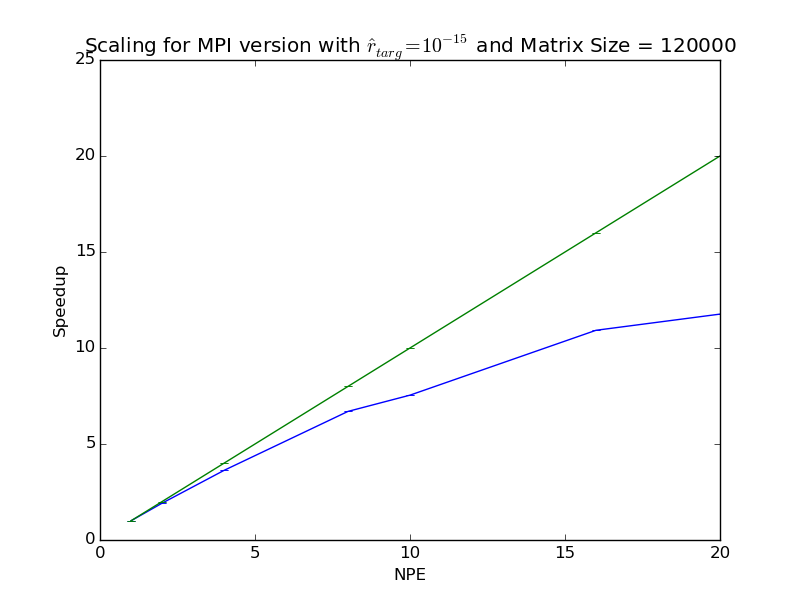
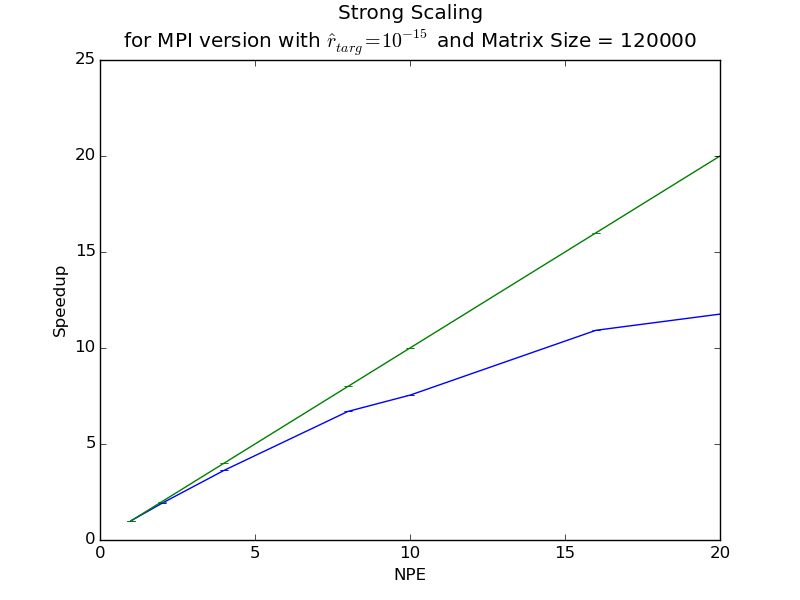
add weak scaling

Changed region(s): [[0.0938, 0.0, 0.9375, 0.12]]

diff --git a/D3/src/plot.py b/D3/src/plot.py
@@ -1,7 +1,7 @@
 import numpy as np
 import matplotlib.pyplot as plt
 
-nfiles = ["results/weak_timing.dat"] #results/strong_timing.dat
+nfiles = ["results/strong_timing.dat", "results/weak_timing.dat"]
 rep = 10     # number of repetition per measure, set in top of src/main.c
 
 for namef in nfiles:
@@ -51,7 +51,7 @@ for namef in nfiles:
 
         plt.errorbar(x_real, y_real[0]/y_real, yerr=err, label = namef[:-4])
         plt.errorbar(x_real, x_real, yerr=err, label = namef[:-4])
-        plt.title('Scaling for MPI version with $\hat{r}_{targ} = 10^{-15}$ and Matrix Size = 120000')
+        plt.title('Strong Scaling\nfor MPI version with $\hat{r}_{targ} = 10^{-15}$ and Matrix Size = 120000')
         plt.xlabel('NPE')
         plt.ylabel('Speedup')
         plt.savefig("results/first_scaling.png")
@@ -59,9 +59,9 @@ for namef in nfiles:
 
     elif namef == nfiles[1]:
 
-        plt.errorbar(x_real**0.5, y_real, yerr=err, label = namef[:-4])
-        plt.title('Scaling obtained with $\hat{r}_{targ} = 10^{-10}$ Matrix Size = 500')
-        plt.xlabel('sqrt(Condition Number)')
-        plt.ylabel('N_Iter')
+        plt.errorbar(x_real, y_real, yerr=err, label = namef[:-4])
+        plt.title('Scaling obtained with $\hat{r}_{targ} = 10^{-10}$ Matrix Size = 120000 * NPE')
+        plt.xlabel('Matrix size')
+        plt.ylabel('time (s)')
         plt.savefig("results/second_scaling.png")
         plt.close('all')

diff --git a/D3/src/benchmark.c b/D3/src/benchmark.c
@@ -33,6 +33,9 @@ int main(int argc, char** argv){
   MPI_Comm_rank(MPI_COMM_WORLD, &MyID);
   MPI_Comm_size(MPI_COMM_WORLD, &NPE);
 
+  /* FOR WEAK SCALING MEASURE */
+  L *= NPE;
+
   MyTag = 42;
   vsize = L;
   L /= NPE;
@@ -102,8 +105,14 @@ int main(int argc, char** argv){
   MPI_Gatherv(f, L, MPI_DOUBLE, results_recv, recv, displ, MPI_DOUBLE, 0, MPI_COMM_WORLD);
   
   if(MyID == 0){
-  timing = fopen("results/strong_timing.dat", "a");    
-  fprintf(timing, "%d\t%lg\n", NPE, tend - tstart);
+    /* STRONG SCALING DATA */
+  /* timing = fopen("results/strong_timing.dat", "a");     */
+  /* fprintf(timing, "%d\t%lg\n", NPE, tend - tstart); */
+
+    /* WEAK SCALING */
+  timing = fopen("results/weak_timing.dat", "a");
+  fprintf(timing, "%d\t%lg\n", vsize, tend - tstart);
+
   fclose(timing);
   /* check_sol = (double*) malloc(vsize * sizeof(double)); */
   /* inverse_laplace_operator(check_sol, b, sigma, vsize, vsize); */
